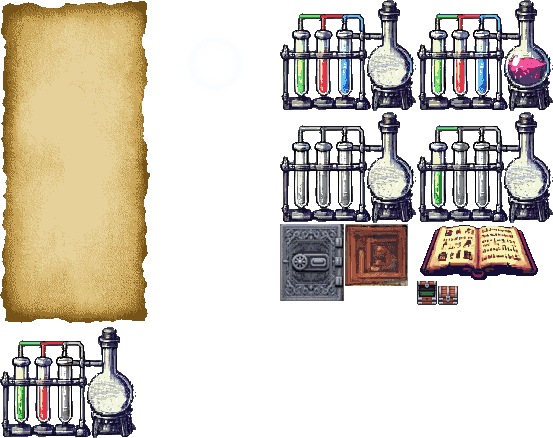
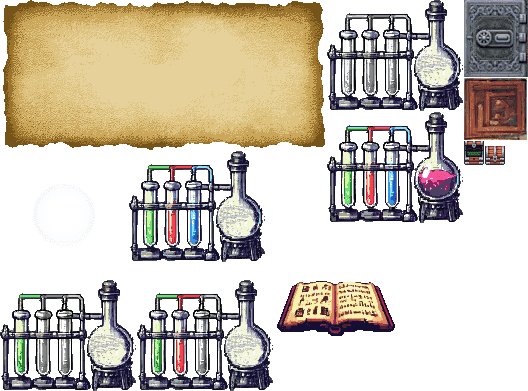
update deps, rotate paper prop image, improve debug ui

diff --git a/src/classes/Environment/Sign.ts b/src/classes/Environment/Sign.ts
@@ -1,13 +1,14 @@
-import { GameObjects, Scene } from 'phaser';
+import { GameObjects, Physics, Scene } from 'phaser';
 
 import { Config } from '../../config';
 import { Layer } from '../../data/layers';
 import { SignData } from '../../data/sign';
 import { LazyInitialize, SignType } from '../../data/types';
+import { initializeObject } from '../../utils/interactionUtils';
 import { shouldInitialize } from '../../utils/util';
 import { Player } from '../Player/Player';
 
-export class Sign extends GameObjects.Image implements LazyInitialize {
+export class Sign extends Physics.Arcade.Image implements LazyInitialize {
   player: Player;
   initialized: boolean = false;
   signType: SignType;
@@ -17,17 +18,19 @@ export class Sign extends GameObjects.Image implements LazyInitialize {
     const { x, y } = SignData[type];
     super(scene, x, y, 'props', 'paper');
 
-    this.setDepth(Layer.Player).setAngle(90).setTint(0xccbbaa).setOrigin(0.5);
-    this.preFX?.addGlow(0x49320b, 1, 0, false);
     this.name = `Sign-${type}`;
     this.player = player;
     this.signType = type;
+
+    initializeObject(this, { ...SignData[type], depth: Layer.Player, origin: { x: 0.5, y: 0.5 } });
+    this.setTint(0xccbbaa);
   }
 
   lazyInit(forceInit?: boolean): void {
     if (!forceInit && (this.initialized || !shouldInitialize(this, this.player))) return;
 
     this.scene.add.existing(this);
+    this.scene.physics.add.existing(this);
     if (Config.debug) this.setInteractive({ draggable: true });
 
     const { x, y, text } = SignData[this.signType];
@@ -41,16 +44,18 @@ export class Sign extends GameObjects.Image implements LazyInitialize {
         strokeThickness: 6,
       })
       .setOrigin(0.5)
-      .setDepth(Layer.Player + 1);
-    // .setBlendMode(Phaser.BlendModes.MULTIPLY);
+      .setDepth(Layer.Player + 1)
+      .setPipeline('Light2D');
 
     const padding = 5;
-    this.setDisplaySize(this.text.displayHeight + padding, this.text.displayWidth + padding * 8);
+    this.setDisplaySize(this.text.displayWidth + padding * 8, this.text.displayHeight + padding);
 
     this.initialized = true;
   }
 
   update() {
     this.lazyInit();
+
+    this.text?.setPosition(this.x, this.y);
   }
 }

diff --git a/src/scenes/dialogs/JournalDialog.ts b/src/scenes/dialogs/JournalDialog.ts
@@ -21,9 +21,9 @@ export class JournalDialog extends Dialog {
   create() {
     super.create();
 
-    this.container.add(this.add.image(0, 0, 'props', 'paper').setScale(3.3, 3).setAngle(90));
+    this.container.add(this.add.image(0, 0, 'props', 'paper').setScale(2.9, 3.3));
     this.container.add(
-      new Button(this, Config.width * 0.46, Config.height * -0.37, 'X', () => this.close(false), {
+      new Button(this, Config.width * 0.44, Config.height * -0.36, 'X', () => this.close(false), {
         ...noteStyle,
         backgroundColor: undefined,
         fontSize: 54,

diff --git a/src/data/arrays.ts b/src/data/arrays.ts
@@ -44,7 +44,15 @@ export const helperTextList: HelperTextType[] = Object.keys(HelperTextType)
 
 export const pipeList: PipeType[] = Object.values(PipeType).filter((value) => typeof value !== 'number');
 
-export const sceneList = ['MainMenu', 'MazeDialog', 'PipesDialog', 'TumblerDialog', 'MemoryDialog', 'SliderDialog'];
+export const sceneList = [
+  'MainMenu',
+  'MazeDialog',
+  'PipesDialog',
+  'TumblerDialog',
+  'MemoryDialog',
+  'SliderDialog',
+  'Books',
+];
 
 export const signList: SignType[] = Object.keys(SignType)
   .map((key: any) => SignType[key])

diff --git a/src/classes/Debug/DebugUI.ts b/src/classes/Debug/DebugUI.ts
@@ -212,6 +212,8 @@ export class DebugUI extends GameObjects.Container {
       this.outline.setSize(this.activeElement.displayWidth, this.activeElement.displayHeight);
       // @ts-ignore
       this.outline.setOrigin(this.activeElement.originX, this.activeElement.originY);
+      // @ts-ignore
+      this.outline.setAngle(this.activeElement.angle || 0);
 
       const body = this.activeElement.body;
       if ((body && body instanceof Physics.Arcade.Body) || body instanceof Physics.Arcade.StaticBody) {

diff --git a/src/scenes/dialogs/Books.ts b/src/scenes/dialogs/Books.ts
@@ -81,7 +81,10 @@ export class Books extends Dialog {
 
     this.createBookshelf();
 
-    this.addTarget(this.add.image(20, 20, 'props', 'paper').setOrigin(0).setScale(2.25, 1.6));
+    const image = this.add.image(0, 0, 'props', 'paper').setScale(1.6, 2.25).setAngle(90);
+    image.setPosition(20 + image.displayHeight / 2, 5 + image.displayWidth / 2);
+    this.addTarget(image);
+
     const text = this.add
       .text(
         70,
